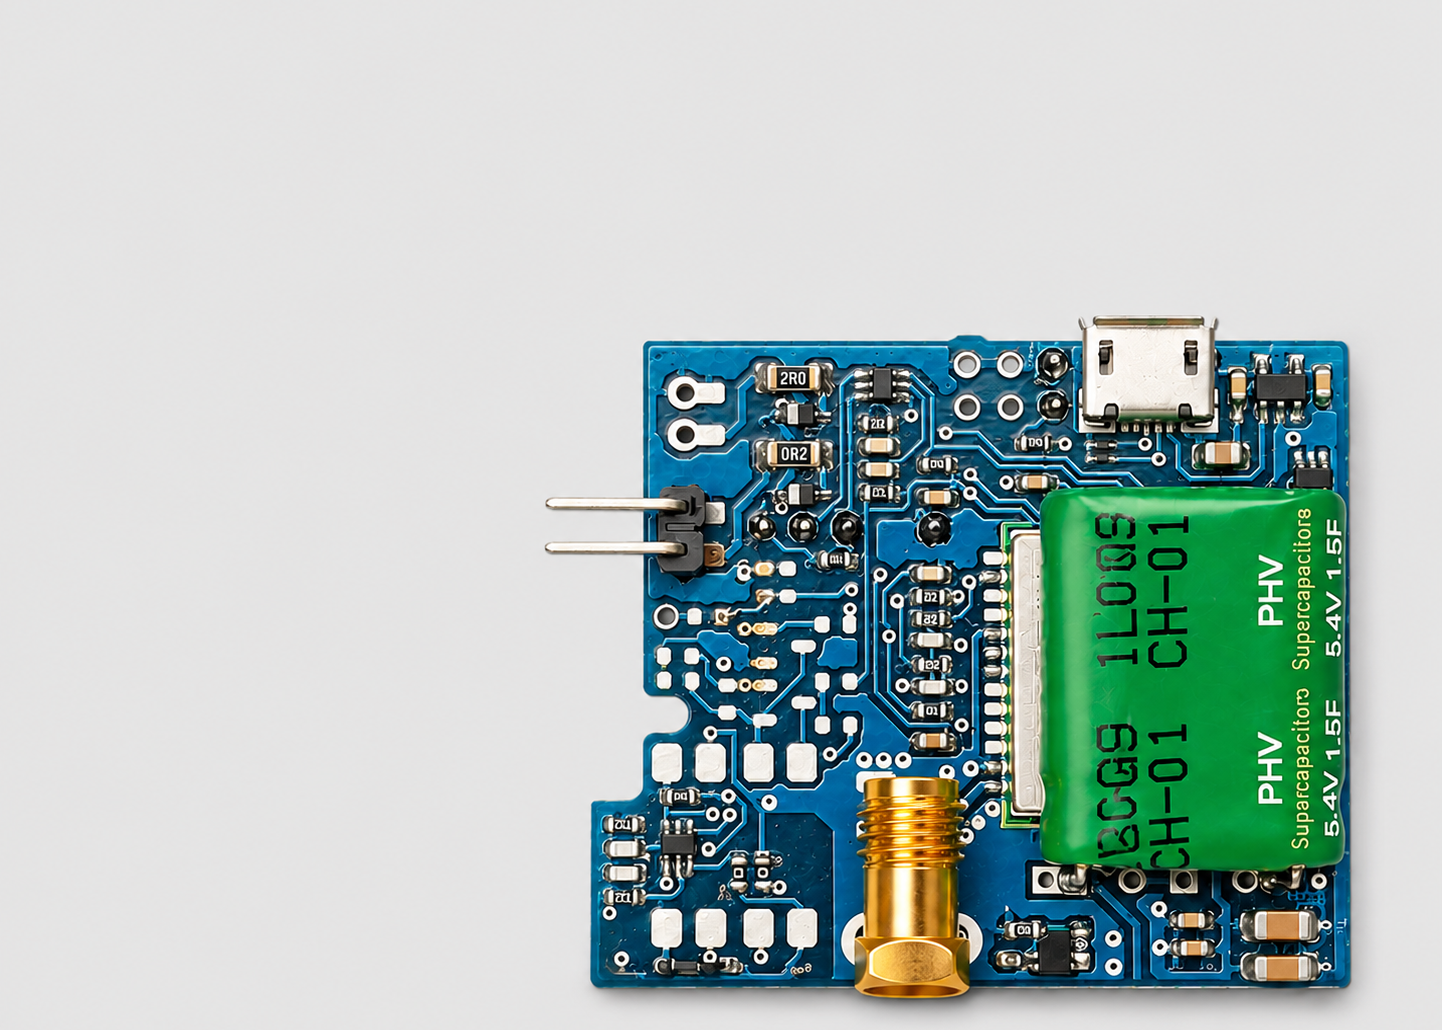
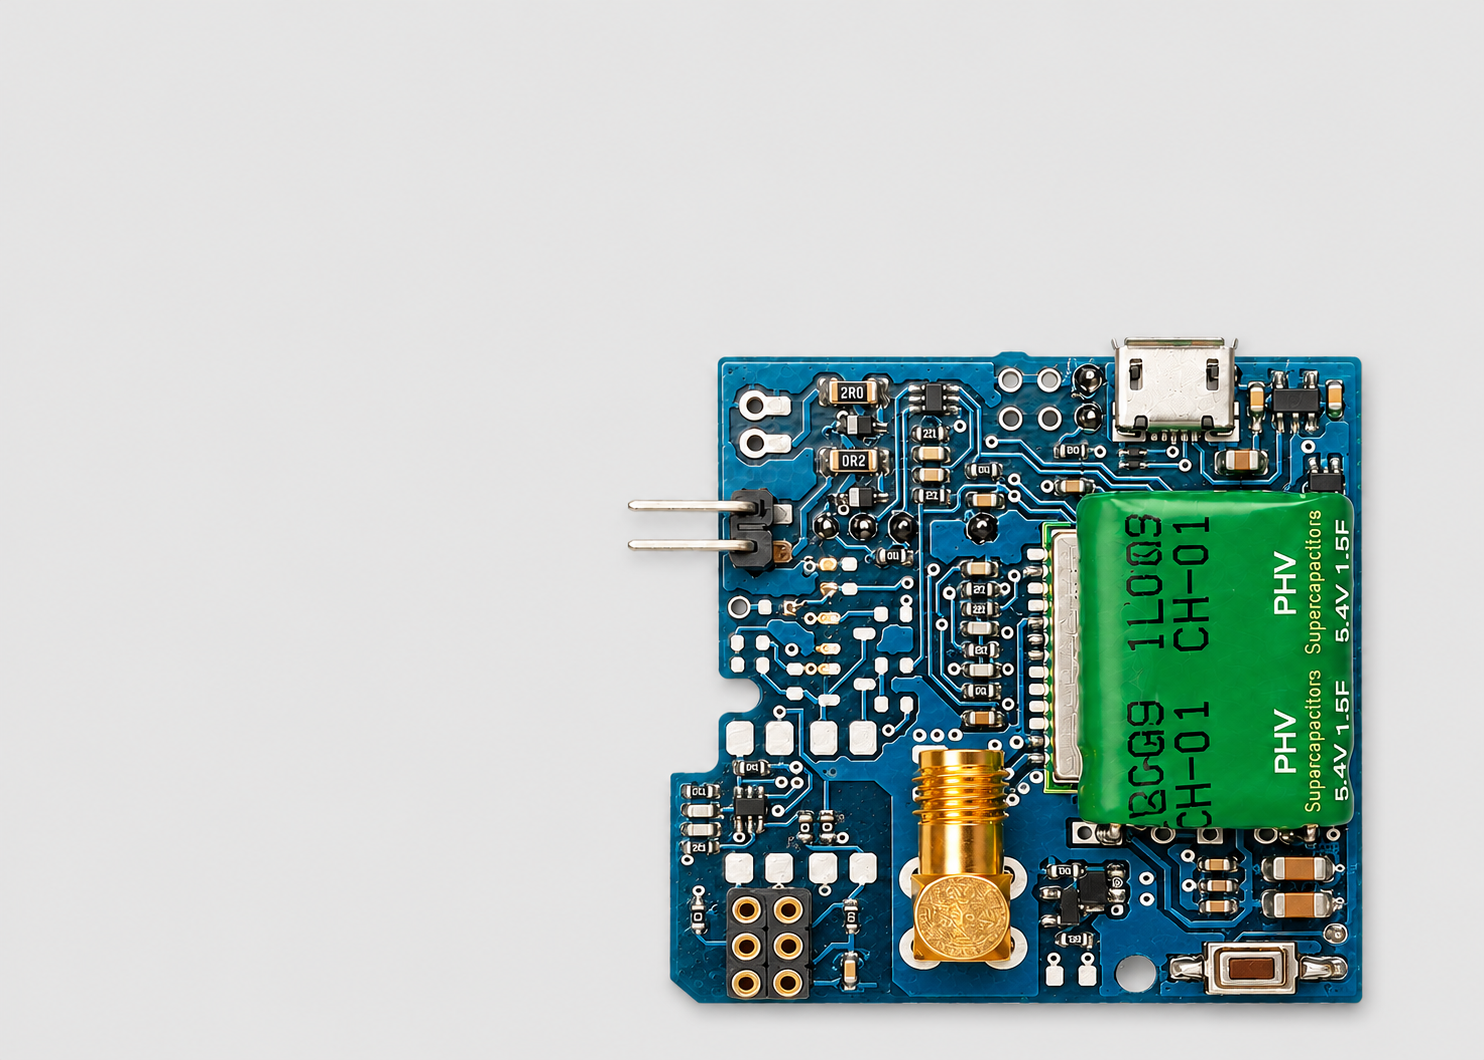
Fix visual bug in admin.

Changed region(s): [[0.3745, 0.3107, 0.9674, 0.9942]]

diff --git a/css/admin.css b/css/admin.css
@@ -838,7 +838,11 @@ html[data-theme="dark"] .order-closed-banner--canceled {
   }
 
   .admin-kpis {
-    grid-template-columns: repeat(4, 1fr);
+    display: grid;
+    grid-template-columns:
+      1fr 1fr
+      minmax(clamp(12.906rem, -2.094rem + 25vw, 16.656rem), max-content)
+      1fr;
     gap: 18px;
   }
 
@@ -865,5 +869,16 @@ html[data-theme="dark"] .order-closed-banner--canceled {
   /* Perfectly aligns the right-side action buttons with the 44px TTN input row */
   .admin-order-card__controls > .admin-btn-row {
     margin-top: 21px;
+  }
+}
+
+@media (min-width: 1600px) {
+  .admin-kpis {
+    display: grid;
+    grid-template-columns:
+      1fr 1fr
+      minmax(clamp(21.656rem, -3.344rem + 25vw, 27.906rem), max-content)
+      1fr;
+    gap: 18px;
   }
 }
